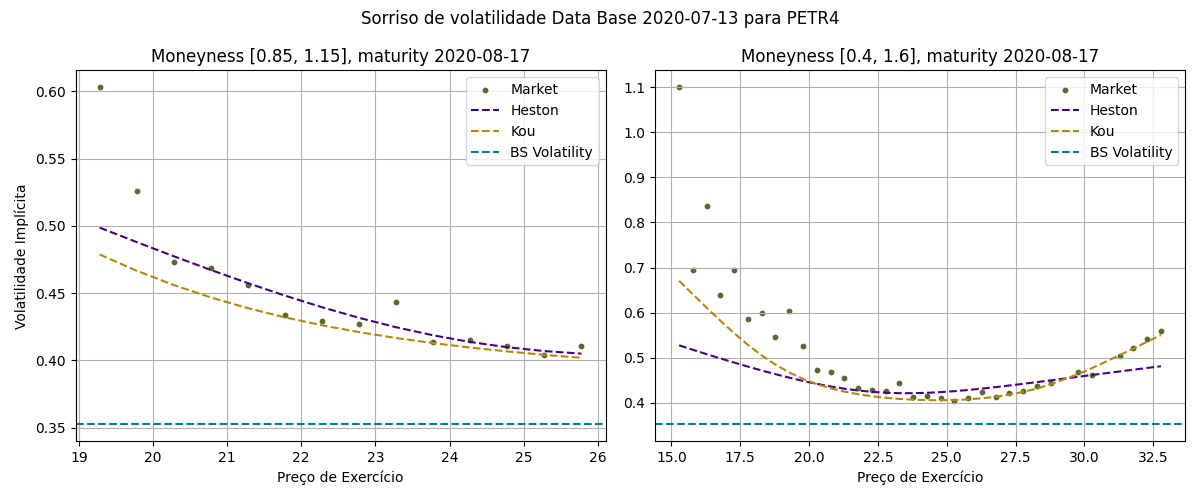
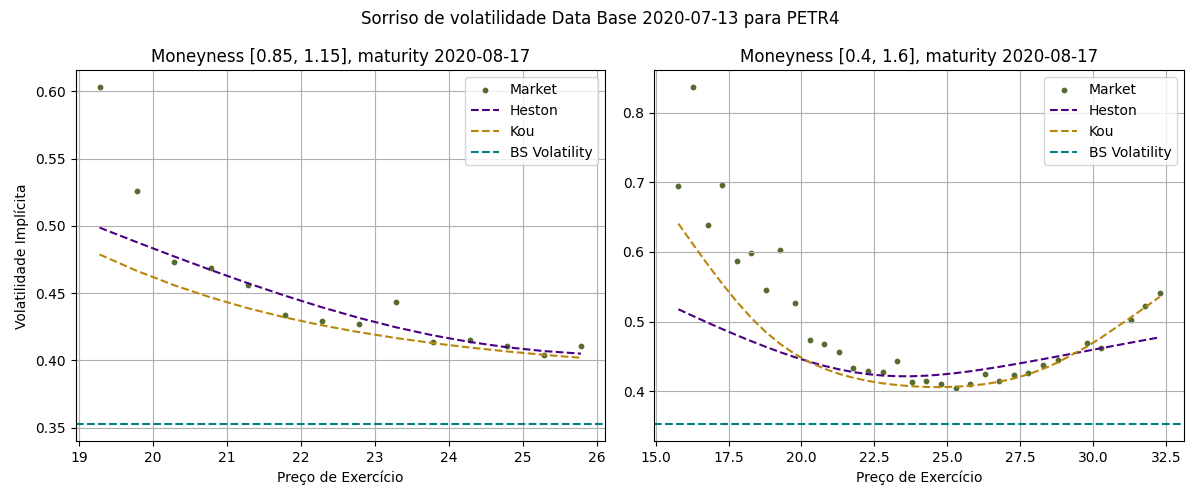
Update figures

diff --git a/models/stylized_facts.py b/models/stylized_facts.py
@@ -403,7 +403,7 @@ def check_smile():
     plt.show()
 
 def test_smile():
-    ticker = "PETR4"
+    ticker = "VALE3"
     moneynesses = [0.15, 0.6]
     for database in ['2020-07-13', '2021-04-20', '2022-04-18', '2023-11-01', '2025-01-30', '2025-06-10']:
     # for database in ['2021-04-20', '2022-04-18']:
